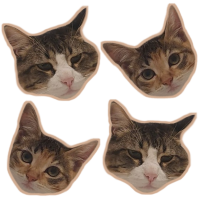
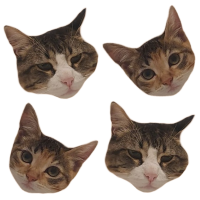
otro mas

Changed region(s): [[0.0, 0.0, 0.99, 0.99]]

diff --git a/index.html b/index.html
@@ -29,7 +29,8 @@
 
     <div class="body">
       <div class="name">Cumpleaños Alexis</div>
-      <p class="bio">Para mi cumpleaños quiero este sillón Dyvlinge de Ikea.</p>
+      <p class="bio">Este año decidí simplificarles la vida, en vez de adivinar qué regalarme, aceptaré con mucho cariño un aporte para mi futura adquisición más importante: un sillón de IKEA.<br>
+        Cada transferencia, grande o pequeña, me acerca un poco más al sueño de descansar como corresponde. ¡Gracias por ser parte de esta noble causa! ❤️<br><i>(Favor compartir transferencia a WhatsApp para actualizar el cómputo)</i></p>
 
       <div class="goal">
         $<span id="current" contenteditable="false">7.990</span>
@@ -41,21 +42,17 @@
         <div class="progress-fill" id="progress-fill"></div>
         <div class="progress-label" id="progress-label">0%</div>
       </div>
-<br>
        <button class="follow-btn" id="copy-btn" onclick="copiarDatos()">Copiar datos ⧉</button>
-    </div>
-
-    <div class="card">
-      <div class="body">
+    <div class="body">
         <p class="bio">
-          Diego felipe Cabrera<br>
-          204193665<br>
-          [email redacted]<br>
-          BANCO_FALABELLA<br>
-          Cuenta Corriente
-          1-584-220880-0</p>
+          Alexis Benavides<br>
+          19.236.793-K<br>
+          Banco de Chile<br>
+          Cuenta Corriente<br>
+          00-157-54188-06<br>
+          [email redacted]<br>
       </div>
-    </div>
+      </div>
   </div>
 
   
@@ -101,7 +98,7 @@
 
 <script>
     function copiarDatos() {
-      const texto = `Diego felipe Cabrera\n204193665\[email redacted]\nBANCO_FALABELLA\nCuenta Corriente\n1-584-220880-0`;
+      const texto = `Alexis Benavides\n19.236.793-K\nBanco de Chile\nCuenta Corriente\n00-157-54188-06\[email redacted]`;
       navigator.clipboard.writeText(texto).then(() => {
         const btn = document.getElementById('copy-btn');
         btn.textContent = '¡Copiado! ✓';

diff --git a/styles.css b/styles.css
@@ -7,6 +7,8 @@
     justify-content: center;
     background: rgb(242, 242, 242);
     font-family: "Inter", -apple-system, sans-serif;
+    margin-top: 10px;
+    margin-bottom: 10px;
   }
 
   body::before {
@@ -15,7 +17,7 @@
   inset: 0;
   background: url('assets/images/bgPattern.png') repeat center center;
   background-size: 200px 200px;
-  opacity: 0.3;
+  /*opacity: 0.3;*/
   z-index: -1;
   }
 
@@ -46,7 +48,7 @@
 
   /* ---------- Body ---------- */
   .body {
-    padding: 18px 20px 20px;
+    padding: 18px 20px 10px;
     text-align: center;
   }
 